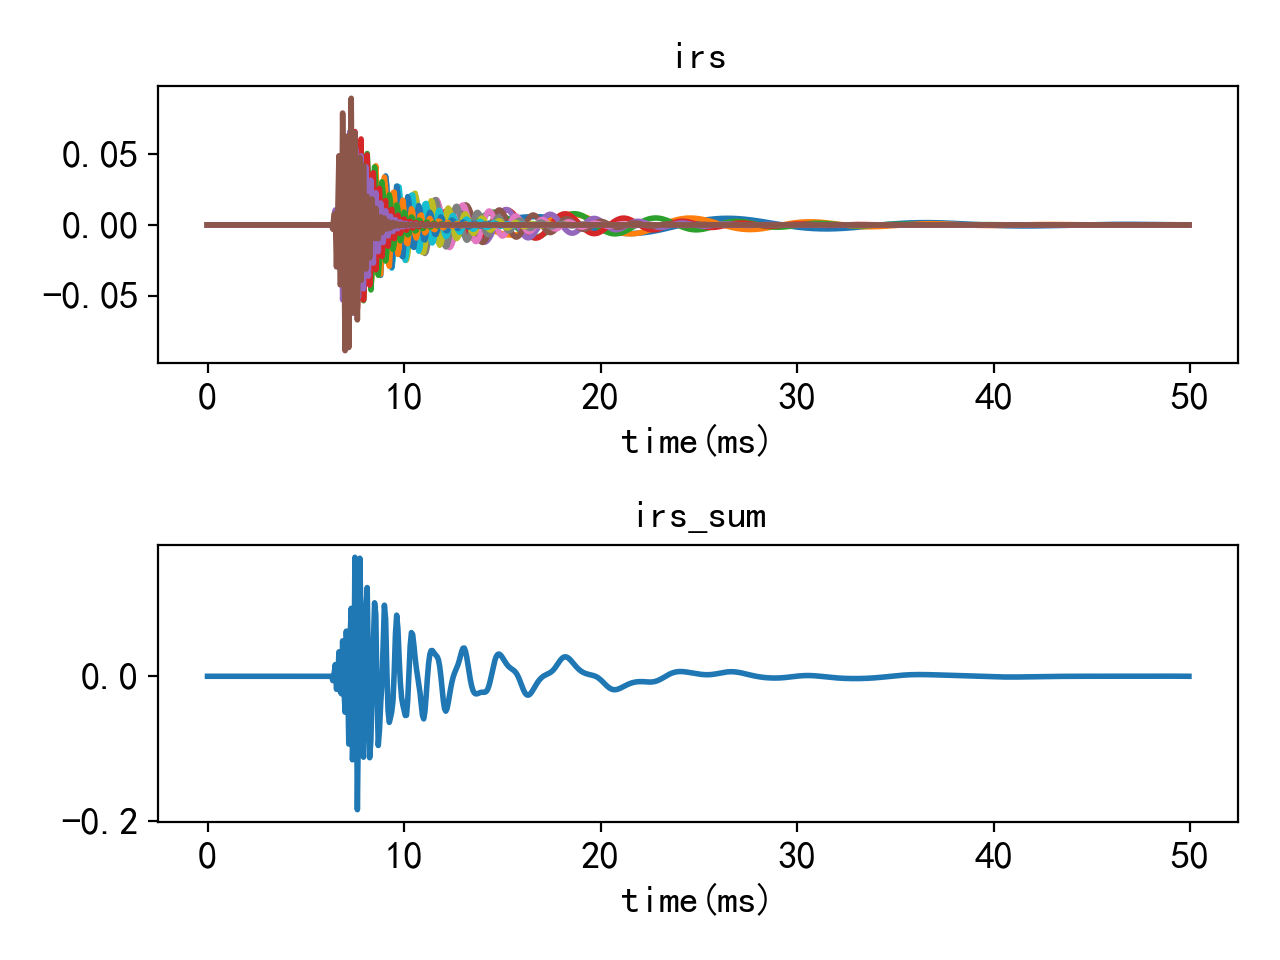
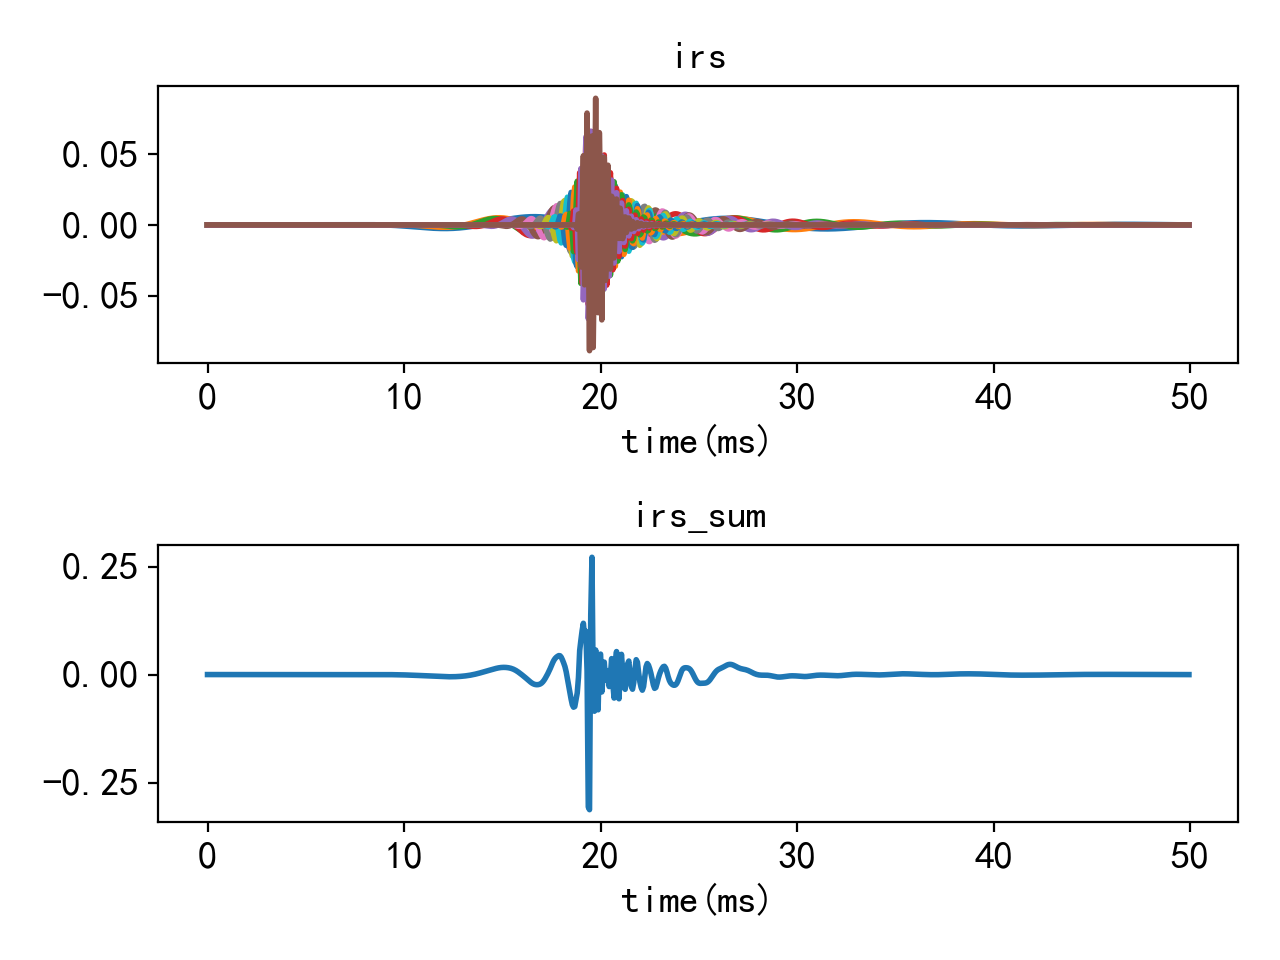
fix bugs in C and validate all example scripts
delay to align envelope should be in unit of sample but in second

diff --git a/examples/filter_spectrum.py b/examples/filter_spectrum.py
@@ -3,30 +3,31 @@ import numpy as np
 import sys
 import os
 sys.path.append('..\\')
-from gtf import gtf
+from GTF import GTF  # noqa
+
 
 def filter_spectrum():
     fs = 16e3
 
-    gt_filter = gtf(fs,cf_low=4e3,cf_high=4e3,n_band=1)
+    gt_filter = GTF(fs, cf_low=4e3, cf_high=4e3, n_band=1)
 
     order = 4
-    freq_bins = np.arange(1,fs/2)
-    n_freq_bin = freq_bins.shape[0]
+    freq_bins = np.arange(1, fs/2)
+    # n_freq_bin = freq_bins.shape[0]
 
     cf = 4e3
     bw = gt_filter.cal_ERB(cf)
-    gain_funcs = 6/((2*np.pi*bw)**order)*\
-                        (np.divide(1,1+1j*(freq_bins-cf)/bw)**order+
-                         np.divide(1,1+1j*(freq_bins+cf)/bw)**order)
+    gain_funcs = (6/((2*np.pi*bw)**order)
+                  * (np.divide(1, 1+1j*(freq_bins-cf)/bw)**order
+                     + np.divide(1, 1+1j*(freq_bins+cf)/bw)**order))
     amp_spectrum = np.abs(gain_funcs)
 
     phase_spectrum1 = np.flip(np.unwrap(np.angle(np.flip(gain_funcs[:4001]))))
     phase_spectrum2 = np.unwrap(np.angle(gain_funcs[4000:]))
-    phase_spectrum = np.concatenate((phase_spectrum1[:4000],phase_spectrum2))
-    delays = np.divide(phase_spectrum,freq_bins)
+    phase_spectrum = np.concatenate((phase_spectrum1[:4000], phase_spectrum2))
+    delays = np.divide(phase_spectrum, freq_bins)
 
-    fig_dir = '..\images\\filter_spectrum'
+    fig_dir = r'..\images\filter_spectrum'
     if not os.path.exists(fig_dir):
         os.mkdir(fig_dir)
     linewidth = 2
@@ -35,43 +36,45 @@ def filter_spectrum():
     hf1 = plt.figure()
     ha1 = hf1.subplots()
     color = 'tab:red'
-    ha1.semilogy(freq_bins/1000,amp_spectrum,color=color,linewidth=linewidth)
-    ha1.set_ylabel('dB',color=color )
+    ha1.semilogy(freq_bins/1000, amp_spectrum, color=color,
+                 linewidth=linewidth)
+    ha1.set_ylabel('dB', color=color)
     ha1.set_xlabel('Frequency(kHz)')
-    ha1.tick_params(axis='y',labelcolor=color)
+    ha1.tick_params(axis='y', labelcolor=color)
     ha1.set_title('cf=4kHz')
 
     ha2 = ha1.twinx()
-    color='tab:blue'
-    ha2.plot(freq_bins/1000,phase_spectrum,color=color,linewidth=linewidth)
+    color = 'tab:blue'
+    ha2.plot(freq_bins/1000, phase_spectrum, color=color, linewidth=linewidth)
     # ha2.get_x
-    ha2.plot([4,4],[-8,8],'-.',color='black')
-    ha2.plot([0,fs/2/1000],[0,0],'-.',color='black')
-    ha2.set_ylabel('phase(rad)',color=color )
-    ha2.tick_params(axis='y',labelcolor=color)
+    ha2.plot([4, 4], [-8, 8], '-.', color='black')
+    ha2.plot([0, fs/2/1000], [0, 0], '-.', color='black')
+    ha2.set_ylabel('phase(rad)', color=color)
+    ha2.tick_params(axis='y', labelcolor=color)
 
-    hf1.savefig(os.path.join(fig_dir,'amp_phase_spectrum.png'))
+    hf1.savefig(os.path.join(fig_dir, 'amp_phase_spectrum.png'))
 
     # Amplitude-phase spectrum
     hf2 = plt.figure()
     ha1 = hf2.subplots()
     color = 'tab:red'
-    ha1.semilogy(freq_bins/1000,amp_spectrum,color=color,linewidth=linewidth)
-    ha1.set_ylabel('dB',color=color )
+    ha1.semilogy(freq_bins/1000, amp_spectrum, color=color,
+                 linewidth=linewidth)
+    ha1.set_ylabel('dB', color=color)
     ha1.set_xlabel('Frequency(kHz)')
-    ha1.tick_params(axis='y',labelcolor=color)
+    ha1.tick_params(axis='y', labelcolor=color)
     ha1.set_title('cf=4kHz')
 
     ha2 = ha1.twinx()
-    color='tab:blue'
-    ha2.plot(freq_bins/1000,delays,color=color,linewidth=linewidth)
+    color = 'tab:blue'
+    ha2.plot(freq_bins/1000, delays, color=color, linewidth=linewidth)
     # ha2.get_x
-    ha2.plot([4,4],[-8,8],'-.',color='black')
-    ha2.plot([0,fs/2/1000],[0,0],'-.',color='black')
-    ha2.set_ylabel('delay(ms)',color=color )
-    ha2.tick_params(axis='y',labelcolor=color)
+    ha2.plot([4, 4], [-8, 8], '-.', color='black')
+    ha2.plot([0, fs/2/1000], [0, 0], '-.', color='black')
+    ha2.set_ylabel('delay(ms)', color=color)
+    ha2.tick_params(axis='y', labelcolor=color)
 
-    hf2.savefig(os.path.join(fig_dir,'amp_delay_spectrum.png'))
+    hf2.savefig(os.path.join(fig_dir, 'amp_delay_spectrum.png'))
 
 
 if __name__ == "__main__":

diff --git a/GTF/GTF.py b/GTF/GTF.py
@@ -142,18 +142,18 @@ class GTF:
         erb = self.cal_ERB(cf)
         return self.bw_factor*erb
 
-    def filter_py(self, x, align_env=False, align_tfs=False,
-                  delay_common=None):
+    def filter_py(self, x, align_env=False, align_fine=False,
+                  delay_common=-1):
         """Filters in Python
         Args:
         x: signal with shape of [x_len,n_band], if x only has single dimension,
         n_band will be added as 1
         align_env: aligned peaks of Gammatone filter impulse response
-        align_tfs: aligned the time fine structure
+        align_fine: aligned the time fine structure
         delay_common: if aligned, give the same delay to all channels,
         default, aligned to the maximum delay
         Returns:
-        fitler result with the shape of [n_band,x_len,n_band]
+        fitler result with the shape of [n_band,x_len,n_channel]
         """
         # constant variables
         tpt = 2*np.pi*(1.0/self.fs)
@@ -169,9 +169,9 @@ class GTF:
 
         if align_env is True:
             delays = np.round(3.0/(2.0*np.pi*self.bws)*self.fs)/self.fs
-            if delay_common is not None:
+            if delay_common != -1:
                 delay_common = np.max(delays)
-                delays = np.int(delays-delay_common)
+                delays = delays-delay_common
         else:
             delays = np.zeros(self.n_band)
 
@@ -193,7 +193,7 @@ class GTF:
             #
             norm_factors[band_i] = (1-k)**4/(1+4*k+k**2)*2
             delay_len_band = np.int(delays[band_i]*self.fs)
-            if align_tfs:
+            if align_fine:
                 phi_init = -3.0*cf/self.bws[band_i]
             else:
                 phi_init = 0
@@ -217,7 +217,7 @@ class GTF:
                 # update IIR output
                 for order_i in range(4, 0, -1):
                     out_a[order_i, :] = out_a[order_i-1, :]
-        return np.squeeze(y)
+        return y
 
     def filter(self, x, align_env=False, align_fine=False,
                delay_common=-1, norm_gain=False):
@@ -296,7 +296,7 @@ class GTF:
         ax[1].set_ylabel('Delay(ms)')
         plt.tight_layout()
 
-        return fig
+        return fig, ax
 
     def plot_filter_spectrum(self, cf=4e3):
         order = 4
@@ -401,7 +401,6 @@ class GTF:
         # impulse stimuli
         x = np.zeros((n_sample, 1))
         x[100] = 1  # spike
-        print(align_env, align_fine)
         irs = self.filter(x, align_env, align_fine, delay_common, norm_gain)
         return irs
 
@@ -413,9 +412,7 @@ class GTF:
 
         n_sample = t.shape[0]
         ir = np.zeros((self.n_band, n_sample))
-
         order = 4
-
         part1 = t**(order-1)
         for band_i in range(self.n_band):
             part2 = np.multiply(np.cos(2*np.pi*self.cfs[band_i]*t),

diff --git a/examples/validate.py b/examples/validate.py
@@ -19,16 +19,20 @@ def compare_cfs():
     n_band = 16
     freq_low = 70
     freq_high = 7000
-    gtf_obj = gtf_proposed(fs, cf_low=freq_low, freq_high=freq_high, n_band=n_band)
+    gtf_obj = gtf_proposed(fs, cf_low=freq_low, freq_high=freq_high,
+                           n_band=n_band)
     cfs_proposed = gtf_obj.cfs
     bws_proposed = gtf_obj.cal_bw(cfs_proposed)
 
-    cfs_ref = gtf_ref.erb_space(low_freq=freq_low, high_freq=freq_high, num=n_band)[::-1]
+    cfs_ref = gtf_ref.erb_space(low_freq=freq_low, high_freq=freq_high,
+                                num=n_band)[::-1]
     bws_ref = gtf_obj.cal_bw(cfs_ref)
 
     fig, ax = plt.subplots(1, 1)
-    ax.errorbar(np.arange(n_band), cfs_proposed, yerr=bws_proposed/2, linewidth=2, label='Todd')
-    ax.errorbar(np.arange(n_band)+n_band/100, cfs_ref, yerr=bws_ref/2, linewidth=2, label='Detly')
+    ax.errorbar(np.arange(n_band), cfs_proposed, yerr=bws_proposed/2,
+                linewidth=2, label='Todd')
+    ax.errorbar(np.arange(n_band)+n_band/100, cfs_ref, yerr=bws_ref/2,
+                linewidth=2, label='Detly')
     ax.set_xlabel('freq_band')
     ax.set_ylabel('freq(Hz)')
     ax.legend()
@@ -43,13 +47,13 @@ def compare_ir():
     x[1] = 1
 
     gtf_obj = gtf_proposed(fs, cf_low=100, cf_high=2000, n_band=4)
-    irs = gtf_obj.filter(x)
-    fig = gtf_obj.plot_ir_spec(irs[:, :1000])
+    irs = gtf_obj.filter(x)[:, :, 0]
+    fig, ax = gtf_obj.plot_ir_spec(irs[:, :1000])
     savefig(fig, 'proposed.png')
 
     coefs = gtf_ref.make_erb_filters(fs, gtf_obj.cfs)
     irs_ref = gtf_ref.erb_filterbank(x, coefs)
-    fig = gtf_obj.plot_ir_spec(irs[:, :1000])
+    fig, ax = gtf_obj.plot_ir_spec(irs[:, :1000])
     savefig(fig, "ref.png")
 
     irs_eq = gtf_obj.get_ir_equation()
@@ -64,9 +68,9 @@ def compare_ir():
     ax[1].plot(irs_eq[3]/np.max(irs_eq[3]), label='Equation')
     ax[1].legend()
     ax[1].set_xlim([0, 200])
-    savefig(fig, 'images/validate/compare.png')
+    savefig(fig, 'compare.png')
 
 
 if __name__ == "__main__":
-    # compare_ir()
+    compare_ir()
     compare_cfs()

diff --git a/examples/gain_normalization.py b/examples/gain_normalization.py
@@ -1,33 +1,36 @@
-import matplotlib.pyplot as plt
-import numpy as np
-import time
 import os
 import sys
 sys.path.append('..\\')
-from gtf import gtf
+from GTF import GTF  # noqa
 
 fig_dir = '../images/gain_normalization/'
 if not os.path.exists(fig_dir):
     os.makedirs(fig_dir)
 
 
+def savefig(fig, fig_name):
+    fig_path = f'{fig_dir}/{fig_name}'
+    fig.savefig(fig_path)
+
+
 def gain_norm_test():
     fs = 16e3
-    gt_filter = gtf(fs,freq_low=80,freq_high=5e3,n_band=16)
+    gt_filter = GTF(fs, freq_low=80, freq_high=5e3, n_band=16)
 
     # ir: filter impulse signal
-    irs = gt_filter.get_ir(is_gain_norm=False)
-    fig = gt_filter.plot_ir_spec(irs)
-    savefig(fig,'irs.png')
+    irs = gt_filter.get_ir(norm_gain=False)[:, :, 0]
+    fig, ax = gt_filter.plot_ir_spec(irs)
+    savefig(fig, 'irs.png')
 
     # gain normalization
-    irs_norm = gt_filter.get_ir()
-    fig = gt_filter.plot_ir_spec(irs_norm)
-    savefig(fig,'irs_norm.png')
+    irs_norm = gt_filter.get_ir()[:, :, 0]
+    fig, ax = gt_filter.plot_ir_spec(irs_norm)
+    savefig(fig, 'irs_norm.png')
 
     # delays and gains
-    fig = gt_filter.plot_delay_gain_cfs()
-    savefig(fig,'delay_gain.png')
+    fig, ax = gt_filter.plot_delay_gain_cfs()
+    savefig(fig, 'delay_gain.png')
+
 
 if __name__ == '__main__':
     gain_norm_test()

diff --git a/GTF/GTF.c b/GTF/GTF.c
@@ -50,15 +50,17 @@ double* GTF(double*y, double*x,int x_len,int fs, double*cfs, double*bws, int n_b
 
     int band_i, sample_i, order;
 
-    FILE* logger = fopen("log.txt", "w");
-    fprintf(logger, "%d %d %d %d", env_align, fine_align, delay_common, is_gain_norm);
+    /*
+    FILE* logger = fopen("log.txt", "w+");
+    fprintf(logger, "%d %d %d %d\r\n", env_align, fine_align, delay_common, is_gain_norm);
     fclose(logger);
-    
+    */
+
     // calculate delay of each band
     if(env_align == 1){
       max_delay = 0;
       for(band_i=0;band_i<n_band;band_i++){
-        delays[band_i] = round(3.0/(2.0*pi*bws[band_i])*fs)/fs;  // integer samples
+        delays[band_i] = round(3.0/(2.0*pi*bws[band_i])*fs);  // integer samples
         if(delays[band_i]>max_delay){ // find maximum delays
           max_delay = delays[band_i];
         }

diff --git a/examples/phase_compensation.py b/examples/phase_compensation.py
@@ -29,16 +29,16 @@ def phase_compensation_test():
 
     ir_len = np.int16(50e-3*fs)
 
-    irs = gtf_filter.get_ir()
+    irs = gtf_filter.get_ir()[:, :, 0]
     fig = my_plot(irs[:, :ir_len], fs)
     savefig(fig, 'irs.png')
 
-    irs_env_aligned = gtf_filter.get_ir(is_env_aligned=True)
+    irs_env_aligned = gtf_filter.get_ir(align_env=True)[:, :, 0]
     fig = my_plot(irs_env_aligned[:, :ir_len], fs)
     savefig(fig, 'irs_env_aligned.png')
 
-    irs_all_aligned = gtf_filter.get_ir(is_env_aligned=True,
-                                        is_fine_aligned=True)
+    irs_all_aligned = gtf_filter.get_ir(align_env=True,
+                                        align_fine=True)[:, :, 0]
     fig = my_plot(irs_all_aligned[:, :ir_len], fs)
     savefig(fig, 'irs_all_aligned.png')
 

diff --git a/examples/example.py b/examples/example.py
@@ -6,7 +6,7 @@ from BasicTools import wav_tools
 
 def main():
 
-    wav, fs = wav_tools.read_wav('record.wav')
+    wav, fs = wav_tools.read('record.wav')
     gt_filter = GTF(fs, freq_low=80, freq_high=5e3, n_band=32)
     wav_band_all_py = gt_filter.filter_py(wav)
     np.save('wav_band_all_py.npy', wav_band_all_py)
@@ -26,7 +26,7 @@ def main():
         ax[1].plot(wav_band_all[band_i, :, 0].T)
         ax[1].set_xlim([5000, 5050])
 
-        fig.savefig(f'../images/eg_{band_i}.png')
+        fig.savefig(f'images/example/eg_{band_i}.png')
         plt.close(fig)
 
 
